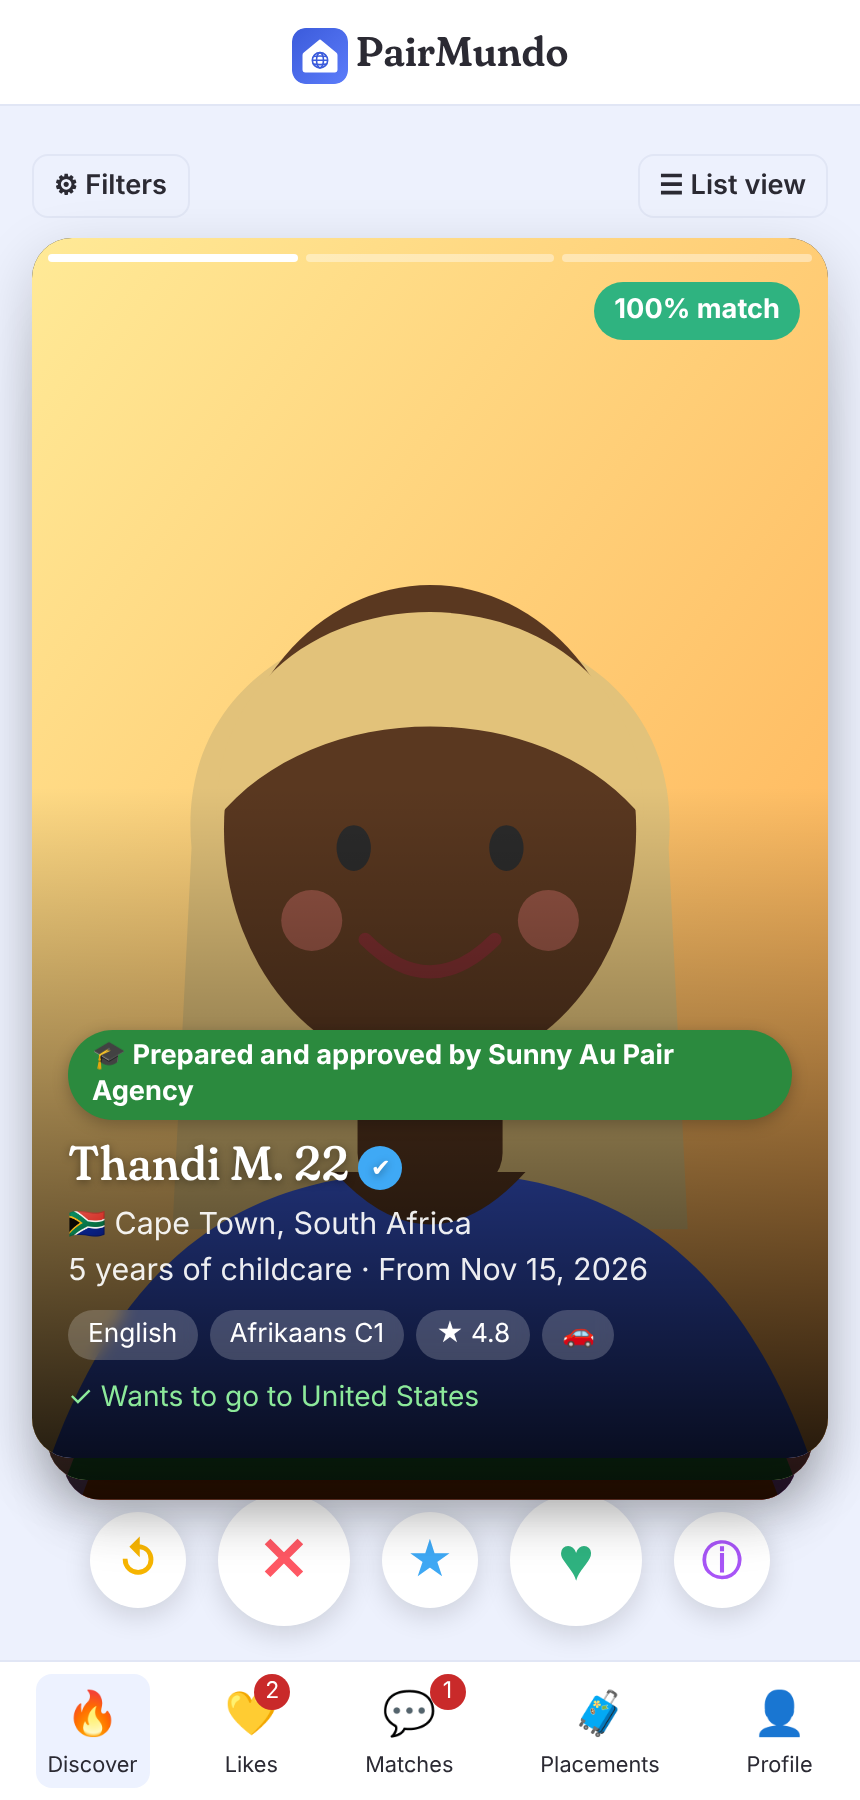
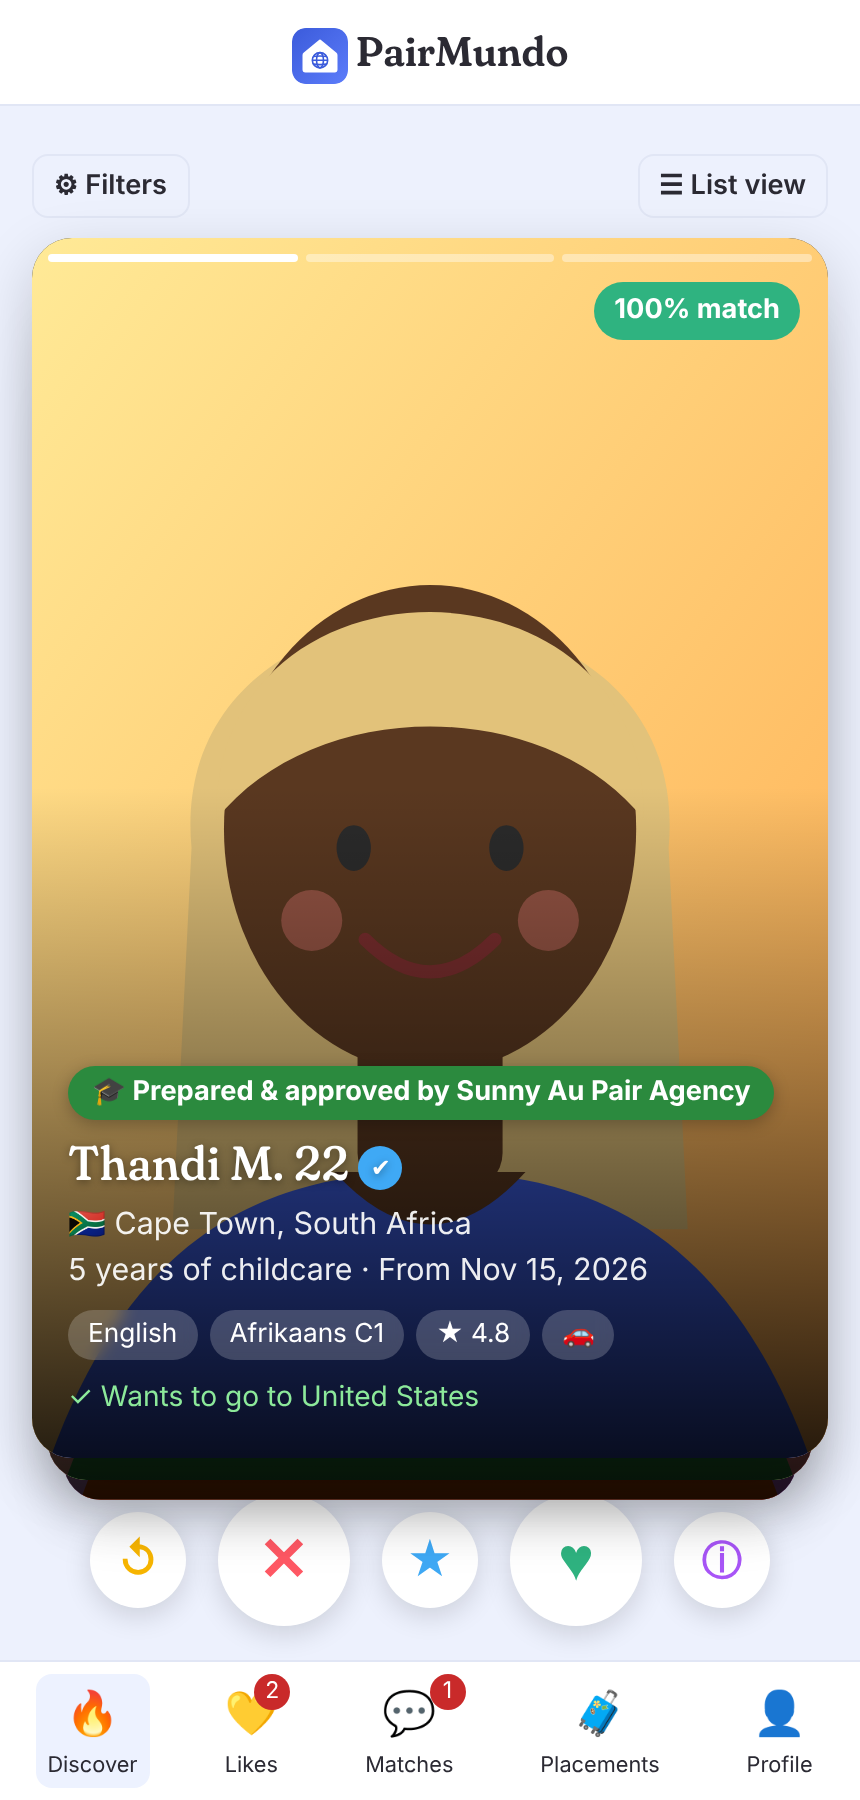
Use "&" in the agency label: Prepared & approved by <agency>
Claude-Session: https://claude.ai/code/session_01HXmLkdDr6mrVPXKUyoVBdX

Changed region(s): [[0.0605, 0.56, 0.9372, 0.6222]]

diff --git a/server/public/app.js b/server/public/app.js
@@ -116,11 +116,11 @@ const avatar = (u, size = '') => (u?.photo_url
   ? `<img class="avatar ${size}" src="${esc(u.photos?.[0] || u.photo_url)}" alt="" onerror="this.outerHTML='<span class=&quot;avatar ${size}&quot;>${initials(u.name)}</span>'">`
   : `<span class="avatar ${size}">${initials(u?.name)}</span>`);
 const verifyBadges = (v, agency, agencyBadges = []) => [v?.id && `✔ ${tr('ID verified')}`, v?.references && `✔ ${tr('References')}`, v?.background && `✔ ${tr('Background check')}`,
-  agency && `<strong>🎓 ${tr('Prepared and approved by {agency}', { agency: esc(agency) })}</strong>`, ...(agency ? agencyBadges || [] : []).map((b) => `🏅 ${tr('{org} member', { org: esc(b) })}`)]
+  agency && `<strong>🎓 ${tr('Prepared & approved by {agency}', { agency: esc(agency) })}</strong>`, ...(agency ? agencyBadges || [] : []).map((b) => `🏅 ${tr('{org} member', { org: esc(b) })}`)]
   .filter(Boolean).map((t) => `<span class="verify">${t}</span>`).join(' ');
 /** The banner on an agency au pair's profile: hard to miss, right under their name. */
 const agencySeal = (u) => (u?.agency ? `<div class="agency-seal" role="note"><span class="agency-seal-icon" aria-hidden="true">🎓</span><div>
-    <div class="agency-seal-title">${tr('Prepared and approved by {agency}', { agency: `<strong>${esc(u.agency)}</strong>` })}</div>
+    <div class="agency-seal-title">${tr('Prepared & approved by {agency}', { agency: `<strong>${esc(u.agency)}</strong>` })}</div>
     <div class="agency-seal-sub">${tr('Their agency prepared this profile and checked it before it went live.')}${(u.agency_badges || []).length ? ` · ${u.agency_badges.map((b) => `🏅 ${tr('{org} member', { org: esc(b) })}`).join(' · ')}` : ''}</div></div></div>` : '');
 const scoreBadge = (s) => `<span class="score ${s >= 75 ? 'high' : s < 50 ? 'low' : ''}" title="${tr('Match score')}">${s}%</span>`;
 /** <option>s for a { value: 'English label' } map, translated and sorted by label. */
@@ -230,7 +230,7 @@ function cardCaption(r) {
   const kids = p.children?.length ? `${trn(p.children.length, '{n} child', '{n} children')} (${p.children.map((c) => c.age).join(', ')})` : '';
   const langs = u.role === 'aupair' ? (p.languages || []).map((l) => `${langName(l.code)}${l.level && l.level !== 'native' ? ` ${l.level}` : ''}`) : (p.languages || []).map((l) => langName(l));
   return `<div class="card-info">
-    ${u.agency ? `<div class="agency-pill">🎓 ${tr('Prepared and approved by {agency}', { agency: esc(u.agency) })}</div>` : ''}
+    ${u.agency ? `<div class="agency-pill">🎓 ${tr('Prepared & approved by {agency}', { agency: esc(u.agency) })}</div>` : ''}
     <h2>${esc(u.name)}${ageOf(r) ? ` <span class="age">${ageOf(r)}</span>` : ''} ${u.verification?.id ? `<span class="tick" title="${tr('ID verified')}">✔</span>` : ''}</h2>
     <div class="sub">${flag(u.country)} ${esc([u.city, country(u.country)].filter(Boolean).join(', '))}${u.role === 'aupair' && p.nationality && p.nationality !== u.country ? ` · ${flag(p.nationality)} ${esc(country(p.nationality))}` : ''}</div>
     <div class="sub">${u.role === 'aupair' ? [p.childcare_years ? trn(p.childcare_years, '{n} year of childcare', '{n} years of childcare') : '', p.available_from ? tr('From {date}', { date: fmtDate(p.available_from) }) : ''].filter(Boolean).join(' · ') : [kids, p.start_date ? tr('Starts {date}', { date: fmtDate(p.start_date) }) : ''].filter(Boolean).join(' · ')}</div>
@@ -684,7 +684,7 @@ views.agency = async () => {
   render(`<h1>${tr('{agency} on PairMundo', { agency: esc(amb.name) })}</h1>
     ${amb.race ? raceCard(amb) : ''}
     <div class="card"><h2>${tr('Your agency code')}: <code>${esc(amb.code)}</code></h2>
-      <p>${tr('Your au pairs type this code when they create their free account, or use your link. Families then see "Prepared and approved by {agency}" on their profiles.', { agency: esc(amb.name) })}</p>
+      <p>${tr('Your au pairs type this code when they create their free account, or use your link. Families then see "Prepared & approved by {agency}" on their profiles.', { agency: esc(amb.name) })}</p>
       <div class="row"><input id="ambLink" readonly value="${esc(amb.link)}" style="flex:1"><button class="btn sm" id="ambCopy">${tr('Copy link')}</button></div></div>
     <div class="card"><h2>${tr('Your au pairs')}</h2>
       <table><tr><th></th><th>${tr('Joined this month')}</th><th>${tr('All time')}</th></tr>
@@ -699,9 +699,9 @@ views.agency = async () => {
     : tr('€129 a month (€97 in your first year as a founding partner) and €75 per au pair who starts with one of your families.')}</p>` : ''}
       <p>${trn(amb.space.families, '{n} family has joined with your code.', '{n} families have joined with your code.')} ${trn(amb.space.aupairs, '{n} au pair has joined with your code.', '{n} au pairs have joined with your code.')}</p>
       <ul>${[[true, amb.space.aupair_criteria?.only_own || (amb.space.closed_network && !amb.space.aupair_criteria) ? tr('Your families see only your au pairs and your partner agencies\' au pairs.')
-      : amb.space.aupair_criteria ? tr('Your families see your au pairs, and au pairs on PairMundo who fit your criteria.') : tr('Your families see every au pair on PairMundo, yours first labelled "Prepared and approved by {agency}".', { agency: esc(amb.name) })],
+      : amb.space.aupair_criteria ? tr('Your families see your au pairs, and au pairs on PairMundo who fit your criteria.') : tr('Your families see every au pair on PairMundo, yours first labelled "Prepared & approved by {agency}".', { agency: esc(amb.name) })],
     [true, amb.space.family_criteria?.only_own || (amb.space.closed_network && !amb.space.share_aupairs) ? tr('Your au pairs are shown only to your families and your partner agencies\' families.')
-      : amb.space.family_criteria ? tr('Your au pairs are shown to your families, and to families on PairMundo who fit your criteria.') : tr('Your au pairs are shown to every family on PairMundo, labelled "Prepared and approved by {agency}".', { agency: esc(amb.name) })],
+      : amb.space.family_criteria ? tr('Your au pairs are shown to your families, and to families on PairMundo who fit your criteria.') : tr('Your au pairs are shown to every family on PairMundo, labelled "Prepared & approved by {agency}".', { agency: esc(amb.name) })],
     [amb.space.mask_contacts, tr('Contact details are hidden in chats until a placement is confirmed.')],
     [amb.space.covers_pass, tr("Your families don't pay PairMundo for the Family Pass.")], [amb.space.approve_families, tr('You approve each family before they see your au pairs.')]].map(([on, label]) => `<li>${on ? '✓' : '–'} ${label}</li>`).join('')}</ul>
       <p class="muted small">${tr('Choose who sees whom below. To change the rest, email PairMundo.')}</p></div>
@@ -832,7 +832,7 @@ function raceCard(amb) {
       <h3>${tr('What you can win')}</h3>
       <div class="race-prizes">${prizes.map(([icon, title, text]) => `<div class="race-prize"><div class="race-icon">${icon}</div><strong>${title}</strong><p>${text}</p></div>`).join('')}</div>
       <div class="race-cols">
-        <div><h3>${tr('Share your links')}</h3><p class="muted small">${tr('Your code {code} is filled in for them. Families then see "Prepared and approved by {agency}" on their profiles. Au pairs never pay.', { code: `<code>${esc(amb.code)}</code>`, agency: esc(amb.name) })}</p>
+        <div><h3>${tr('Share your links')}</h3><p class="muted small">${tr('Your code {code} is filled in for them. Families then see "Prepared & approved by {agency}" on their profiles. Au pairs never pay.', { code: `<code>${esc(amb.code)}</code>`, agency: esc(amb.name) })}</p>
           ${link('raceAupair', tr('For your au pairs'), r.links.aupair)}${link('raceFamily', tr('For your host families'), r.links.family)}</div>
         <div><h3>${tr('Or we do the typing')}</h3><p class="small">${tr('Send Badji a list of candidates who agreed to join (name, email, the country they\'d like to go to). We email each one a sign-up link with your code filled in. They add a photo and a few lines, and they\'re live.')}</p>
           <a class="btn sm secondary" href="mailto:badji@pairmundo.com?subject=${encodeURIComponent(`Founding Partner Race: candidates from ${amb.name}`)}">${tr('Email Badji your list')}</a>

diff --git a/mobile/src/components/Poster.js b/mobile/src/components/Poster.js
@@ -58,7 +58,7 @@ function Polaroid({ user, uri, width, tilt, caption, gallery }) {
   );
 }
 
-/** "Prepared and approved by <agency>": a banner under the name of an au pair whose agency made their profile, so families notice it. */
+/** "Prepared & approved by <agency>": a banner under the name of an au pair whose agency made their profile, so families notice it. */
 export function AgencySeal({ u }) {
   if (!u?.agency) return null;
   const badges = u.agency_badges || [];
@@ -70,7 +70,7 @@ export function AgencySeal({ u }) {
       </View>
       <View style={{ flex: 1 }}>
         <Text style={{ fontSize: 16, color: '#1d5f2b', fontWeight: '600' }}>
-          {tr('Prepared and approved by {agency}').split('{agency}').flatMap((part, i) => (i ? [<Text key={i} style={{ fontWeight: '800' }}>{u.agency}</Text>, part] : [part]))}
+          {tr('Prepared & approved by {agency}').split('{agency}').flatMap((part, i) => (i ? [<Text key={i} style={{ fontWeight: '800' }}>{u.agency}</Text>, part] : [part]))}
         </Text>
         <Text style={{ fontSize: 12.5, color: '#4d5a52', marginTop: 2 }}>
           {tr('Their agency prepared this profile and checked it before it went live.')}{badges.length ? ` · ${badges.map((b) => `🏅 ${tr('{org} member', { org: b })}`).join(' · ')}` : ''}

diff --git a/mobile/src/components/SwipeDeck.js b/mobile/src/components/SwipeDeck.js
@@ -58,7 +58,7 @@ export function CardCaption({ r, onPress }) {
       {u.agency ? (
         <View style={styles.agency}>
           <Ionicons name="school" size={14} color="#fff" />
-          <Text style={styles.agencyText} numberOfLines={2}>{tr('Prepared and approved by {agency}', { agency: u.agency })}</Text>
+          <Text style={styles.agencyText} numberOfLines={2}>{tr('Prepared & approved by {agency}', { agency: u.agency })}</Text>
         </View>
       ) : null}
       <View style={{ flexDirection: 'row', alignItems: 'center', gap: 8 }}>
